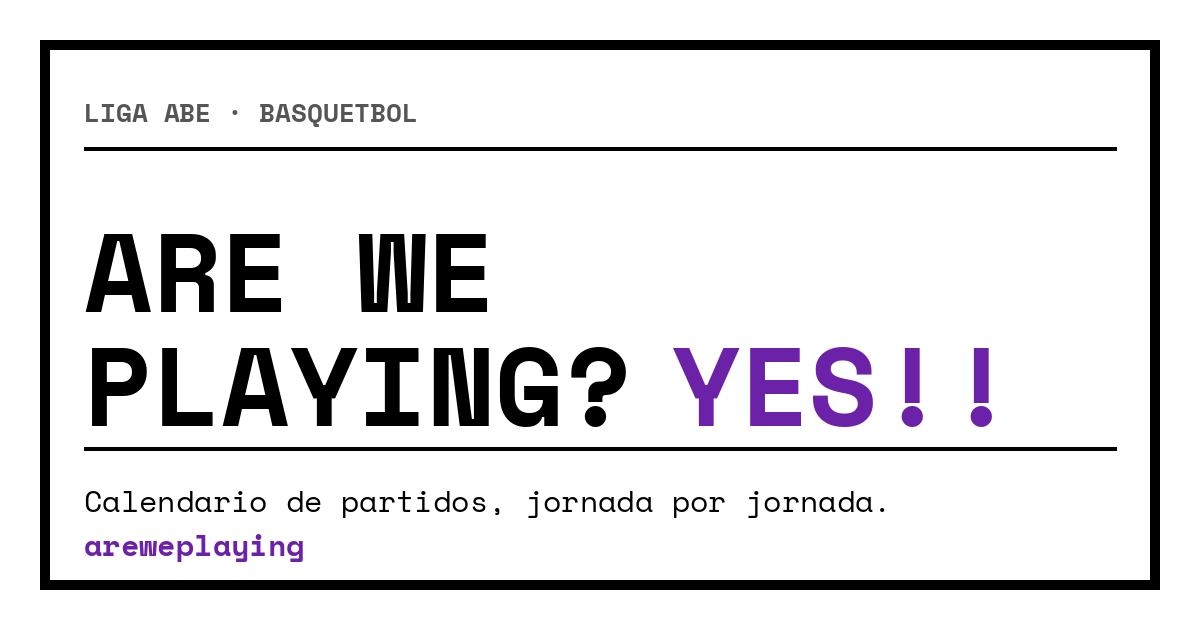
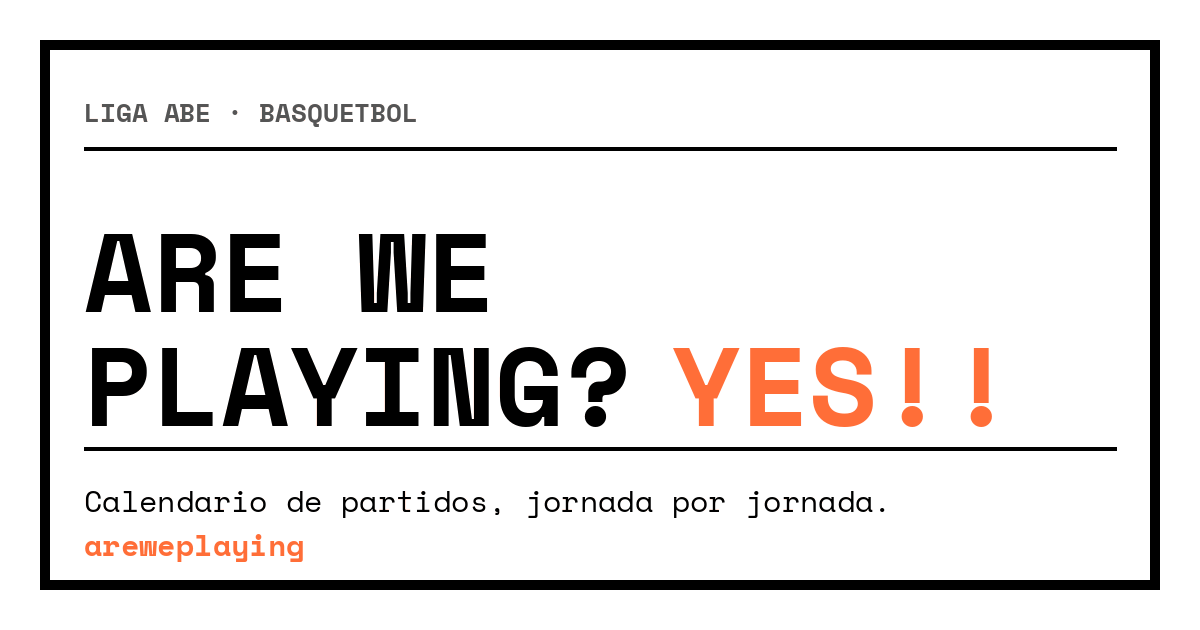
refactor: change primary color to orange

Changed region(s): [[0.555, 0.5429, 0.7708, 0.6937], [0.0617, 0.8444, 0.2467, 0.9048], [0.8017, 0.5429, 0.8325, 0.6937]]

diff --git a/src/styles/global.css b/src/styles/global.css
@@ -10,7 +10,7 @@
   --card-foreground: oklch(0 0 0);
   --popover: oklch(1.0 0 0);
   --popover-foreground: oklch(0 0 0);
-  --primary: oklch(0.4383 0.1983 303.7241);
+  --primary: oklch(0.71 0.19 39.57);
   --primary-foreground: oklch(1.0 0 0);
   --secondary: oklch(0.9276 0.0058 264.5313);
   --secondary-foreground: oklch(0 0 0);
@@ -70,7 +70,7 @@
   --card-foreground: oklch(1.0 0 0);
   --popover: oklch(0 0 0);
   --popover-foreground: oklch(1.0 0 0);
-  --primary: oklch(0.6056 0.2189 292.7172);
+  --primary: oklch(0.71 0.19 39.57);
   --primary-foreground: oklch(1.0 0 0);
   --secondary: oklch(0.3729 0.0306 259.7328);
   --secondary-foreground: oklch(1.0 0 0);

diff --git a/src/components/match-card.tsx b/src/components/match-card.tsx
@@ -57,7 +57,7 @@ export default function MatchCard({
 		<div
 			ref={$card}
 			data-active={isFavorite}
-			className="bg-zinc-100 shadow-xs mb-6 text-card-foreground flex flex-col gap-6 p-0 transition-all hover:translate-x-0.5 hover:translate-y-0.5 hover:shadow-none rounded-md group data-[active=true]:bg-primary/80 data-[active=true]:text-primary-foreground!"
+			className="bg-zinc-100 group shadow-xs mb-6 text-card-foreground flex flex-col gap-6 p-0 transition-all hover:translate-x-0.5 hover:translate-y-0.5 hover:shadow-none rounded-md group data-[active=true]:bg-primary/90 data-[active=true]:text-primary-foreground!"
 		>
 			{children}
 		</div>
